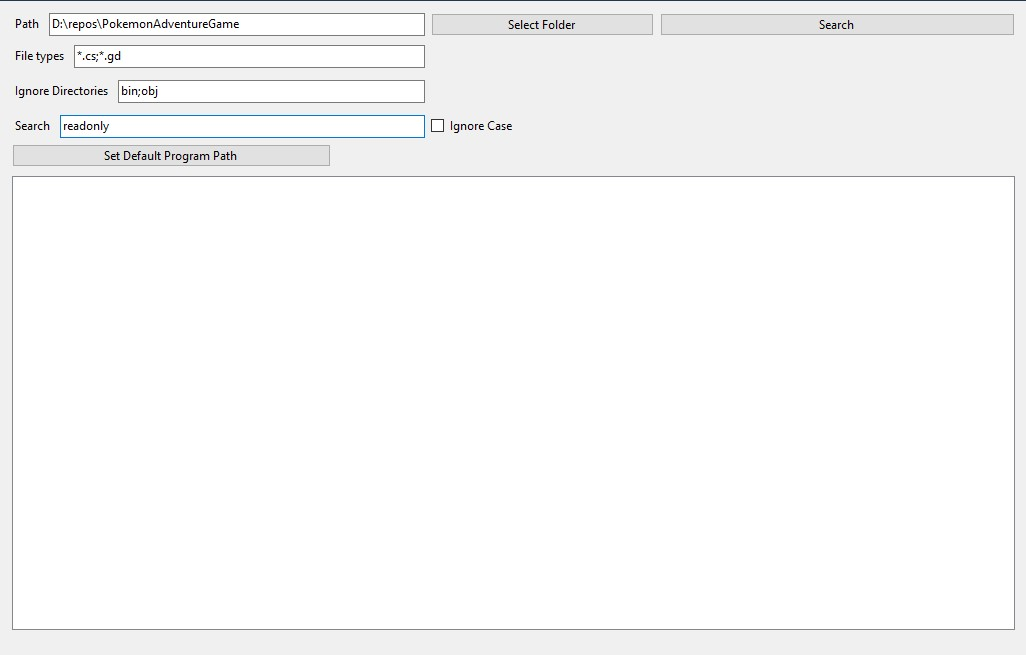
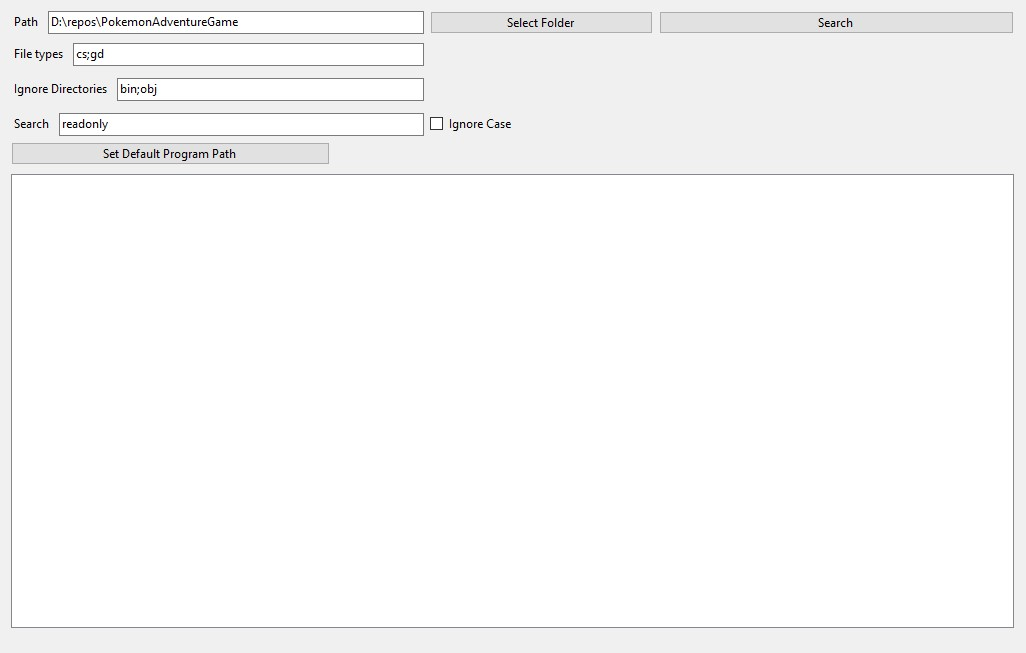
Updating docs on the file extension search usage

Changed region(s): [[0.0, 0.0, 0.9981, 0.2757]]

diff --git a/README.md b/README.md
@@ -17,7 +17,7 @@ When you open up the program for the first time, this is the screen you'll see:
 And to make sense of each field and button:
 
 - Path: The path where the files you want to search in are located. You can also click the "Select Folder" button and select the path from there;
-- File types: The allowed file types to look for. You can put in a single pattern like `*.cs` or any amount you want, separated by ";" like `*.cs;*.py;*.c;*.go`;
+- File types: The allowed file types to look for. You can put in a single extension like `cs` or any amount of extensions you want, separated by ";" like `cs;py;c;go`;
 - Ignore Directories: The name of directories you would like to ignore during the search. For example, a `node_modules` folder. You can ignore more than one directory like the file type filter: `bin;obj;wwwroot;node_modules`;
 - Search: The search pattern you want to look for. The checkbox right after it allows you to make a case-insentive search;
 - Set Default Program Path: The program you want to open up the files in. For example, if you found the match you were looking for, you can double-click the item listed in the white box and the file will be opened in it:
